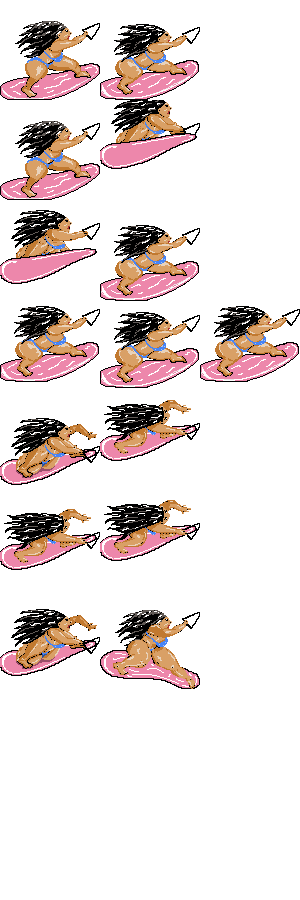
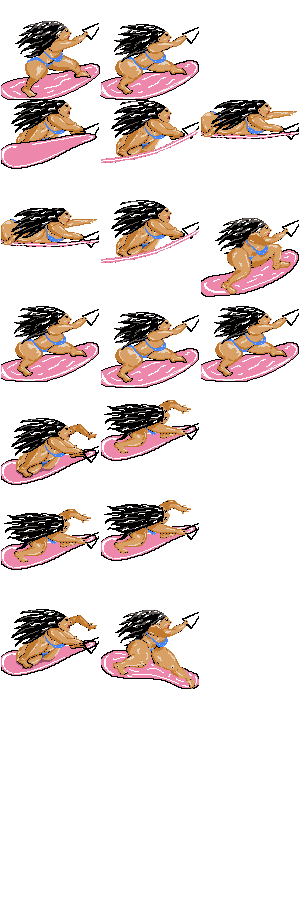
BugFix, Wave movement added, jump bar added

Changed region(s): [[0.0, 0.0933, 1.0, 0.3422], [0.33, 0.2178, 0.66, 0.3422], [0.66, 0.2178, 1.0, 0.3422]]

diff --git a/FlowBackGround.c b/FlowBackGround.c
@@ -58,32 +58,63 @@ void DrawWater()
 }
 */
 
-void DraawSkyBackGround()
+void DrawSkyBackGround()
 {
-    
+    SkyAnimationData.Position.x -= CP_System_GetDt() * GameData.Speed / 60.f;
+    float imageWidth = (float)CP_Image_GetWidth(SkyAnimationData.Image);
+    float imageHeight = (float)CP_Image_GetHeight(SkyAnimationData.Image);
+    CP_Image_Draw(SkyAnimationData.Image, SkyAnimationData.Position.x, SkyAnimationData.Position.y, imageWidth, imageHeight, 255);
+    CP_Image_Draw(SkyAnimationData.Image, SkyAnimationData.Position.x + imageWidth, SkyAnimationData.Position.y, imageWidth, imageHeight, 255);
+    if (SkyAnimationData.Position.x < -imageWidth)
+    {
+        SkyAnimationData.Position.x = (float)CP_System_GetWindowWidth();
+    }
 }
 void DrawFarBackGround()
 {
-    BridgeAnimationData.AnimationTimer += CP_System_GetDt();
-    if (BridgeAnimationData.AnimationTimer > 0.3f)
-    {
-        if (BridgeAnimationData.Index == 1)
-        {
-            BridgeAnimationData.Index = 0;
-            BridgeAnimationData.AnimationTimer = 0.f;
-        }
-        else
-        {
-            BridgeAnimationData.Index++;
-            BridgeAnimationData.AnimationTimer = 0.f;
-        }
-    }
-    //float imageWidth = (float)CP_Image_GetWidth(BridgeAnimationData.Image);
-    float imageHeight = (float)CP_Image_GetHeight(BridgeAnimationData.Image);
-    CP_Image_Draw(BridgeAnimationData.Image, 0.f, GameData.LaneMin.y - imageHeight, GameData.LaneMax.x, imageHeight, 255);
+    FarBackgroundAnimationData.Position.x -= CP_System_GetDt()*GameData.Speed/30.f;
+    float imageWidth = (float)CP_Image_GetWidth(FarBackgroundAnimationData.Image) * 10.f;
+    float imageHeight = (float)CP_Image_GetHeight(FarBackgroundAnimationData.Image) * 10.f;
+    CP_Image_Draw(FarBackgroundAnimationData.Image, FarBackgroundAnimationData.Position.x, FarBackgroundAnimationData.Position.y, imageWidth, imageHeight, 255);
     //CP_Image_DrawSubImage(BridgeAnimationData.Image, 0.f, GameData.LaneMin.y - imageHeight, GameData.LaneMax.x, imageHeight, (imageWidth / 2.f) * SeaAnimationData.SeaIndex, 0.f, (imageWidth / 2.f) * (SeaAnimationData.SeaIndex + 1), imageHeight, 255);
  
+    if (FarBackgroundAnimationData.Position.x < -imageWidth)
+    {
+        FarBackgroundAnimationData.Position.x = (float)CP_System_GetWindowWidth();
+    }
+}
 
+void DrawBackGroundSeaGull()
+{
+    for (int i = 0; i < MAX_SEAGULL_NUM; i++)
+    {
+        SeaGullAnimationData[i].Timer += CP_System_GetDt()* SeaGullAnimationData[i].PlayRatio;
+        SeaGullAnimationData[i].Position.x -= CP_System_GetDt() * GameData.Speed / 5.f * SeaGullAnimationData[i].PlayRatio;
+        float imageWidth = (float)CP_Image_GetWidth(SeaGullAnimationData[i].Image) / 5.f;
+        float imageHeight = (float)CP_Image_GetHeight(SeaGullAnimationData[i].Image);
+        CP_Image_DrawSubImage(SeaGullAnimationData[i].Image, SeaGullAnimationData[i].Position.x, SeaGullAnimationData[i].Position.y, imageWidth, imageHeight, imageWidth * SeaGullAnimationData[i].Index, 0.f, imageWidth * (SeaGullAnimationData[i].Index + 1), imageHeight, 255);
+
+        if (SeaGullAnimationData[i].Timer > 1.f)
+        {
+            if (SeaGullAnimationData[i].Index == 4)
+            {
+                SeaGullAnimationData[i].Index = 0;
+            }
+            else
+            {
+                SeaGullAnimationData[i].Index++;
+            }
+            SeaGullAnimationData[i].Timer = 0.f;
+        }
+
+        if (SeaGullAnimationData[i].Position.x < -imageWidth)
+        {
+            SeaGullAnimationData[i].Position.x = CP_Random_RangeFloat((float)CP_System_GetWindowWidth(), CP_System_GetWindowWidth() + 1600.f);
+            SeaGullAnimationData[i].Position.y = CP_Random_RangeFloat(100.f, CP_System_GetWindowHeight()/2.f - 150.f);
+            SeaGullAnimationData[i].PlayRatio = CP_Random_RangeFloat(0.4f, 2.f);
+        }
+    }
+   
 }
 
 void DrawNearBackGround()

diff --git a/BigWave.cpp b/BigWave.cpp
@@ -1,6 +1,8 @@
 #include "BigWave.h"
 #include "cprocessing.h"
 #include "stdio.h"
+
+float AnimationNextTime = 2.f;
 void BeginWave()
 {
 	BigWaveData.bIsValid = true;
@@ -16,12 +18,13 @@ void UpdateWave()
 		float ImageSizeX = (float)CP_Image_GetWidth(BigWaveData.WaveImage);
 		float ImageSizeY = (float)CP_Image_GetHeight(BigWaveData.WaveImage);
 		BigWaveData.AnimationTimer += CP_System_GetDt();
+		float DrawOffsetY = BigWaveData.WaveIndex < BigWaveData.WaveMaxIndex / 2 ? BigWaveData.WaveImageSize.y/4.f * (AnimationNextTime - BigWaveData.AnimationTimer) / AnimationNextTime : BigWaveData.WaveImageSize.y / 4.f * (BigWaveData.AnimationTimer)/ AnimationNextTime;
 		if (!BigWaveData.bIsRiderable)
 		{
-			CP_Image_DrawSubImage(BigWaveData.WaveImage, 0.f, GameData.LaneMin.y - BigWaveData.WaveImageSize.y, BigWaveData.WaveImageSize.x, BigWaveData.WaveImageSize.y, ImageSizeX / BigWaveData.WaveMaxIndex * BigWaveData.WaveIndex, 0, ImageSizeX / BigWaveData.WaveMaxIndex * (BigWaveData.WaveIndex + 1), ImageSizeY, 255);
+			CP_Image_DrawSubImage(BigWaveData.WaveImage, 0.f, GameData.LaneMin.y - BigWaveData.WaveImageSize.y + DrawOffsetY, BigWaveData.WaveImageSize.x, BigWaveData.WaveImageSize.y, ImageSizeX / BigWaveData.WaveMaxIndex * BigWaveData.WaveIndex, 0, ImageSizeX / BigWaveData.WaveMaxIndex * (BigWaveData.WaveIndex + 1), ImageSizeY, 255);
 			
 			
-			if (BigWaveData.AnimationTimer > 1.f)
+			if (BigWaveData.AnimationTimer > AnimationNextTime)
 			{
 				BigWaveData.WaveIndex++;
 				BigWaveData.AnimationTimer = 0.f;
@@ -45,9 +48,9 @@ void UpdateWave()
 		}
 		else
 		{
-			CP_Image_DrawSubImage(BigWaveData.WaveImage, 0.f, GameData.LaneMin.y - BigWaveData.WaveImageSize.y, BigWaveData.WaveImageSize.x, BigWaveData.WaveImageSize.y, ImageSizeX / BigWaveData.WaveMaxIndex * BigWaveData.WaveIndex, 0, ImageSizeX / BigWaveData.WaveMaxIndex * (BigWaveData.WaveIndex + 1), ImageSizeY, 255);
+			CP_Image_DrawSubImage(BigWaveData.WaveImage, 0.f, GameData.LaneMin.y - BigWaveData.WaveImageSize.y + DrawOffsetY, BigWaveData.WaveImageSize.x, BigWaveData.WaveImageSize.y, ImageSizeX / BigWaveData.WaveMaxIndex * BigWaveData.WaveIndex, 0, ImageSizeX / BigWaveData.WaveMaxIndex * (BigWaveData.WaveIndex + 1), ImageSizeY, 255);
 			
-			if (BigWaveData.AnimationTimer > 1.f)
+			if (BigWaveData.AnimationTimer > AnimationNextTime)
 			{
 				BigWaveData.WaveIndex++;
 				BigWaveData.AnimationTimer = 0.f;

diff --git a/FlowObstacle.c b/FlowObstacle.c
@@ -171,7 +171,7 @@ void RenderCharacter_Internal()
 {
 	//RenderCharacter
 	CharacterData.AnimationTimer += CP_System_GetDt();
-	if (CharacterData.AnimationTimer > 0.5f)
+	if (CharacterData.AnimationTimer > 0.3f)
 	{
 		if (CharacterData.AnimationFrame == CharacterData.AnimationMaxFrame)
 		{
@@ -211,15 +211,16 @@ void RenderCharacter_Internal()
 			CharacterData.AnimationTimer = 0.f;
 		}
 	}
+	float CharacterDrawRatio = 0.8f + 0.2f * (CharacterData.CharacterPos.y / (GameData.LaneMax.y - GameData.LaneMin.y));
 	CP_Image_DrawSubImage(CharacterData.CharacterImage,
-		GameData.LaneMin.x + CharacterData.CharacterPos.x,
-		GameData.LaneMin.y + CharacterData.CharacterPos.y - CharacterData.CharaterDrawSize.y + CharacterData.CharacterCollisionSize.y,
-		CharacterData.CharaterDrawSize.x,
-		CharacterData.CharaterDrawSize.y,
-		100.f * CharacterData.AnimationFrame ,//+ 1,
-		100.f * CharacterData.CharacterState ,//+ 1,
-		100.f * (CharacterData.AnimationFrame+1),// - 1,
-		100.f * (CharacterData.CharacterState + 1),// - 1,
+		GameData.LaneMin.x + CharacterData.CharacterPos.x + (CharacterData.CharaterDrawSize.x * (1 - CharacterDrawRatio) /2.f),
+		GameData.LaneMin.y + CharacterData.CharacterPos.y - CharacterData.CharaterDrawSize.y + CharacterData.CharacterCollisionSize.y + (CharacterData.CharaterDrawSize.y * (1 - CharacterDrawRatio)),
+		CharacterData.CharaterDrawSize.x * CharacterDrawRatio,
+		CharacterData.CharaterDrawSize.y * CharacterDrawRatio,
+		100.f * CharacterData.AnimationFrame + 1,
+		100.f * CharacterData.CharacterState + 1,
+		100.f * (CharacterData.AnimationFrame+1) - 1,
+		100.f * (CharacterData.CharacterState + 1) - 1,
 		255);
 	CP_Settings_Fill(CP_Color_Create(0, 0, 0, 100));
 	CP_Graphics_DrawRect(GameData.LaneMin.x + CharacterData.CharacterPos.x + CharacterData.CharacterCollisionOffset.x, GameData.LaneMin.y + CharacterData.CharacterPos.y, CharacterData.CharacterCollisionSize.x, CharacterData.CharacterCollisionSize.y);

diff --git a/AssetLib.c b/AssetLib.c
@@ -1,12 +1,15 @@
 #include "AssetLib.h"
 #include "BGM.h"
+#include "GlobalVariables.h"
+
 
 FSeaAnimationData SeaAnimationData;
 
 FFarBackGroundImageAnimationData SkyAnimationData;
 
-FFarBackGroundImageAnimationData BridgeAnimationData;
-FFarBackGroundImageAnimationData CityAnimationData;
+FFarBackGroundImageAnimationData FarBackgroundAnimationData;
+
+FFarBackGroundImageAnimationData SeaGullAnimationData[MAX_SEAGULL_NUM];
 
 FObstacleData TurtleData;
 FObstacleData BoxData;
@@ -35,7 +38,23 @@ void InitAsset()
 	SFXCombo = CP_Sound_Load("./Assets/ComboSFX.mp3");
 
 	SeaAnimationData.SeaImage = CP_Image_Load("./Assets/Sea.png");
-	BridgeAnimationData.Image = CP_Image_Load("./Assets/LandScape.png");
+
+	SkyAnimationData.Image = CP_Image_Load("./Assets/Sky.png");
+	SkyAnimationData.Position = CP_Vector_Set(0.f, 0.f);
+
+	FarBackgroundAnimationData.Image = CP_Image_Load("./Assets/LandScape.png");
+	FarBackgroundAnimationData.Position = CP_Vector_Set((float)CP_System_GetWindowWidth(), GameData.LaneMin.y - (float)CP_Image_GetHeight(FarBackgroundAnimationData.Image) * 10.f);
+
+	for (int i = 0;i < MAX_SEAGULL_NUM; i++)
+	{
+		SeaGullAnimationData[i].Image = CP_Image_Load("./Assets/SeaGull.png");
+		SeaGullAnimationData[i].Timer = CP_Random_RangeFloat(0.f,2.f);
+		SeaGullAnimationData[i].Index = CP_Random_RangeInt(0,4);
+		SeaGullAnimationData[i].Position.x = CP_Random_RangeFloat((float)CP_System_GetWindowWidth(), CP_System_GetWindowWidth() + 1600.f);
+		SeaGullAnimationData[i].Position.y = CP_Random_RangeFloat(100.f, CP_System_GetWindowHeight() / 2.f - 150.f);
+		SeaGullAnimationData[i].PlayRatio = CP_Random_RangeFloat(0.4f, 2.f);
+	}
+	
 
 	TurtleData.ObstacleImage = CP_Image_Load("./Assets/Turtle.png");
 	TurtleData.ObstacleImageSize = CP_Vector_Set(80.f, 50.f);

diff --git a/drone.c b/drone.c
@@ -5,14 +5,13 @@
 #include "stdlib.h"
 
 #define PI 3.14159265
-#define SCREEN_WIDTH dronePosx + 50
-#define SCREEN_HEIGHT dronePosy
+
 
 float Angle = 0.f;
 float Radius = 5.f;
 float dronePosx;
 float dronePosy;
-
+float DraneSizeAlpha;
 float DroneOffsetX = 0.f;
 float DroneOffsetY = 0.f;
 float DronePositionYtoXMaxOffset = 100.f;
@@ -34,10 +33,10 @@ void drone()
 {
     float DeltaDronePosX = targetPosition.x - CharacterData.CharacterPos.x;
     float DeltaDronePosY = targetPosition.y - CharacterData.CharacterPos.y;
-    float Alpha = (CharacterData.CharacterPos.y) / (GameData.LaneMax.y - GameData.LaneMin.y);
+    DraneSizeAlpha = (CharacterData.CharacterPos.y) / (GameData.LaneMax.y - GameData.LaneMin.y);
 
 	dronePosx = CharacterData.CharacterPos.x + DeltaDronePosX + 570.f;
-    dronePosx += DronePositionYtoXMaxOffset * -Alpha;
+    dronePosx += DronePositionYtoXMaxOffset * -DraneSizeAlpha;
 	dronePosy = CharacterData.CharacterPos.y + DeltaDronePosY + 30.f;
 	dronePosy *= 2.f;
     if (dronePosy > CP_System_GetWindowHeight())
@@ -69,7 +68,7 @@ void drone()
     dronePosy += DroneOffsetY + jitterCurrentY;
 
 	CP_Settings_Fill(CP_Color_Create(128, 128, 128, 255));
-	CP_Graphics_DrawCircle(dronePosx, dronePosy, 180 * (0.8f + (1.0f - 0.8f)*Alpha));
+	CP_Graphics_DrawCircle(dronePosx, dronePosy, 180 * (0.8f + (1.0f - 0.8f)* DraneSizeAlpha));
 
 	//CP_Graphics_DrawLine(GameData.LaneMin.x + CharacterData.CharacterPos.x + CharacterData.HandOffset.x, GameData.LaneMin.y + CharacterData.CharacterPos.y + CharacterData.HandOffset.y, dronePosx, dronePosy);
     DrawLine(GameData.LaneMin.x + CharacterData.CharacterPos.x + CharacterData.HandOffset.x, GameData.LaneMin.y + CharacterData.CharacterPos.y + CharacterData.HandOffset.y, dronePosx, dronePosy);

diff --git a/AssetLib.h b/AssetLib.h
@@ -5,13 +5,14 @@
 
 
 #define OBSTACLE_NUM 10
+#define MAX_SEAGULL_NUM 5
 extern FSeaAnimationData SeaAnimationData;
 
 extern FFarBackGroundImageAnimationData SkyAnimationData;
 
-extern FFarBackGroundImageAnimationData BridgeAnimationData;
-extern FFarBackGroundImageAnimationData CityAnimationData;
+extern FFarBackGroundImageAnimationData FarBackgroundAnimationData;
 
+extern FFarBackGroundImageAnimationData SeaGullAnimationData[];
 
 extern FObstacleData TurtleData;
 extern FObstacleData BoxData;

diff --git a/Game.c b/Game.c
@@ -40,10 +40,13 @@ void game_update(void)
 {
 	CP_Graphics_ClearBackground(CP_Color_Create(128, 128, 255, 255));
 	CP_Settings_Fill(CP_Color_Create(0, 0, 255, 255));
+	DrawSkyBackGround();
 	DrawFarBackGround();
+	DrawBackGroundSeaGull();
+	UpdateWave();
 	DrawWater();
 //	CP_Graphics_DrawRect(GameData.LaneMin.x, GameData.LaneMin.y, GameData.LaneMax.x-GameData.LaneMin.x, GameData.LaneMax.y - GameData.LaneMin.y);
-	UpdateWave();
+	
 	RenderObjects();
 	UpdateKeyInput();
 	UpdateCharacterPosition();

diff --git a/GlobalVariables.c b/GlobalVariables.c
@@ -74,7 +74,7 @@ void InitBigWaveData()
 	BigWaveData.bIsRiderable = false;
 	BigWaveData.bIsValid = false;
 	BigWaveData.WaveImageSize = CP_Vector_Set((float)CP_System_GetWindowWidth(), (float)CP_System_GetWindowHeight() / 5.f);
-	BigWaveData.WaveETA = CP_Random_RangeFloat(0.f,0.f);
+	BigWaveData.WaveETA = CP_Random_RangeFloat(0.f, 0.f);//(5.f,15.f);
 	BigWaveData.WaveImage = CP_Image_Load("./Assets/Wave.png");
 	BigWaveData.WaveRiderableStartIndex = 2;
 	BigWaveData.WaveRiderableEndIndex = 5;

diff --git a/KeyInput.c b/KeyInput.c
@@ -67,7 +67,7 @@ void UpdateKeyInput()
 
 	if (CP_Input_KeyTriggered(KEY_SPACE))//Jump?
 	{
-		if (CharacterData.CharacterState != WAVING && CharacterData.CharacterState != STARTWAVE && CharacterData.CharacterState != ENDWAVE)
+		if (CharacterData.CharacterState == STANDING)
 		{
 			if (CharacterData.JumpTimer == 0.f)
 			{
@@ -123,7 +123,6 @@ void UpdateKeyInput()
 	{
 		CharacterData.Energy = 0.f;
 	}
-
 }
 
 

diff --git a/GameStruct.h b/GameStruct.h
@@ -91,8 +91,10 @@ typedef struct FSeaAnimationData {
 
 typedef struct FFarBackGroundImageAnimationData {
 	CP_Image Image;
-	float AnimationTimer;
+	CP_Vector Position;//TopLeft
+	float Timer;
 	int Index;
+	float PlayRatio;
 }FFarBackGroundImageAnimationData;
 
 typedef struct FBigWaveData {

diff --git a/FlowBackGround.h b/FlowBackGround.h
@@ -3,8 +3,8 @@
 
 void DrawWater();
 
-void DraawSkyBackGround();
+void DrawSkyBackGround();
 
 void DrawFarBackGround();
-
+void DrawBackGroundSeaGull();
 void DrawNearBackGround();
